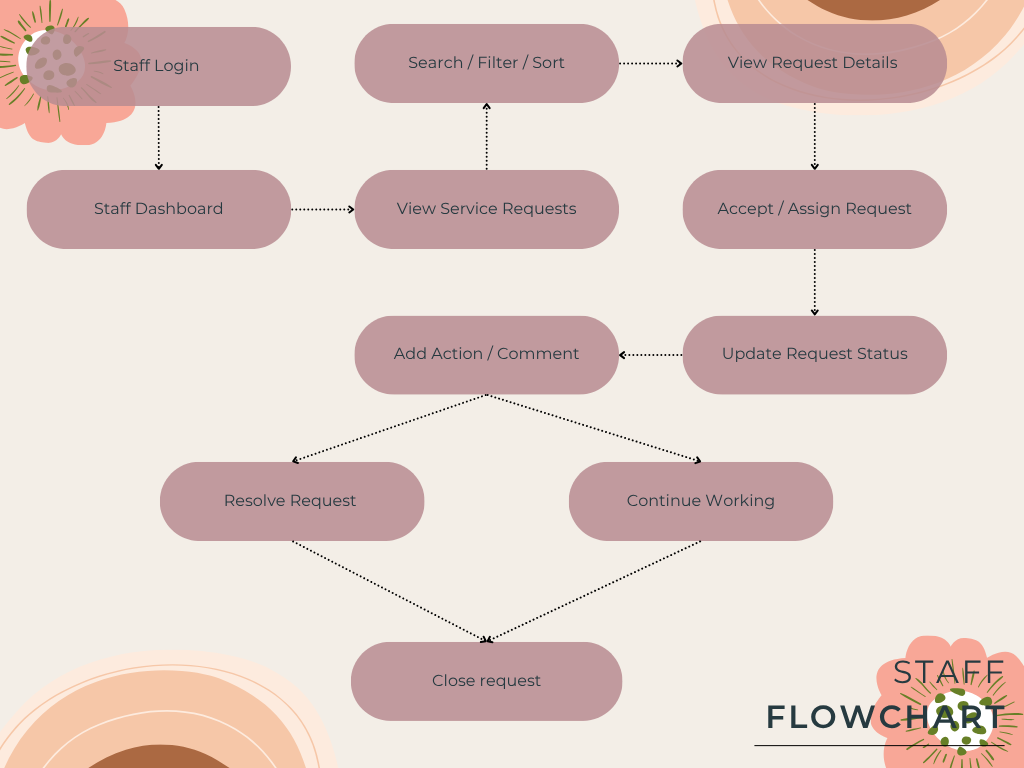
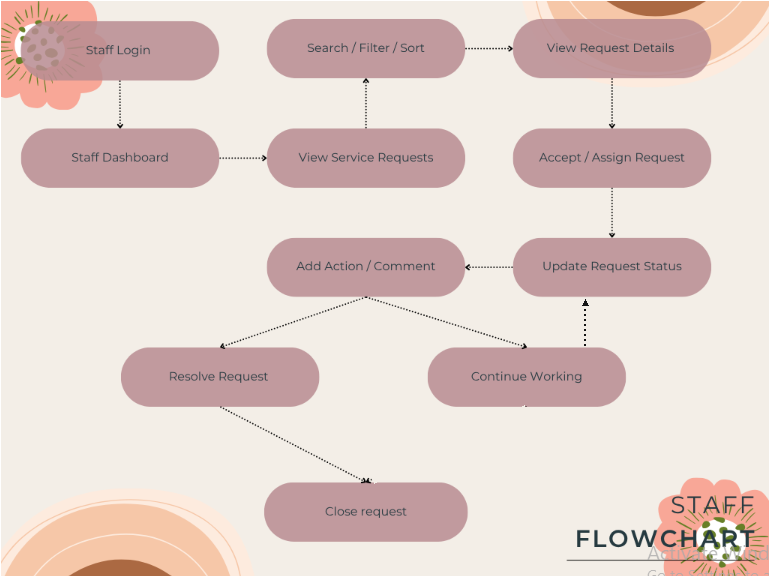
UI Design Complete
All the necessary wireframes have been developed and uploaded according to the necessary requirements outlined. The UI design document has also been developed to showcase reasoning behind all the interface designs.
Closes #24

diff --git a/docs/Architecture/ui-design.md b/docs/Architecture/ui-design.md
@@ -1,0 +1,91 @@
+# UI & Interaction Design
+## 1. Design Goals
+| Goal Number | Goal | Driven By |
+|---|---|---|
+| G1 | A requester must be able to successfully submit a request and check its status without any assistance | NFR-006 (80% of the test users complete the key tasks unassisted)|
+| G2 | Each role must only see the screen and actions that are necessary/appropriate for them | NFR-002 (role-based access) |
+| G3 |  Incomplete/invalid input must be rejected at the interface with valuable feedback to the user | NFR-011 (data integrity) |
+| G4 |  Core screens my work on necessary browsers with no browser-specific features | NFR-012 (browser compatibility) |
+ 
+## 2. Information Architecture 
+The login is shared and after the user logs in, they will land on their role's specific homescreen. Every screen will also show the same top bar (except the login page). Access of each type of role will be enforced on the server side (NFR-002), so this ensures security that a user can't type a staff URL and get access automatically.
+
+The UI is following the presentation layer that is defined in the architecture under Modular Layered Monolith Architecture.png.
+
+**Shared:**   Login → (role-based landing screen)
+
+**Requester:**   Requester Dashboard → Submit New Request
+ → Request Detail (status + history)
+
+**Staff:**       Staff Dashboard → Request Detail (assign / update status / comment / resolve / close)
+
+**Management:**  Management Dashboard → Request Detail (read-only)
+
+## 3. User Flows 
+Requester flow: Requester Flowchart.png
+Staff flow: Staff Flowchart.png
+Management flow: Management Flowchart.png
+
+Rule for the Staff flow: after successfully updating a status and adding comments or actions, staff wil either resolve the request or continue working. Only a resolved request proceeds to close (FR-010, FR-012).
+
+## 4. Wireframes 
+| Screen | Role | Requirements covered | Wireframe |
+|---|---|---|---|
+| Login | All | NFR-001, NFR-003 | login.png |
+| Submit a new request | Requester | FR-001, FR-002 | requester-submit-request.png |
+| Submit a new request with validation errors | Requester | NFR-011 | requester-submit-request-error.png |
+| Requester Dashboard | Requester | FR-003, FR-004 | requester-dashboard.png |
+| Request Detail | Requester | FR-003, FR-005 | requester-request-detail.png |
+| Staff Dashboard | Staff | FR-006, FR-007 | staff-dashboard.png |
+| Request Detail and actions | Staff | FR-008, FR-009, FR-010, FR-011, FR-012, NFR-009 | staff-request-detail.png |
+| Management Dashboard | Management | FR-013, FR-014, FR-015 | management-dashboard.png |
+
+## 5. Usability Rationale
+| Design Choice | Why | Requirement | 
+|---|---|---|
+| Overdue is being shown as a flag instead of as a status on a request | A request can be in progress as well as overdue at the same time | FR-014 |
+| The Management Dashboard shows the counts for the amount of requests that are open, overdue, resolved and closed. Filters can also be used that filters everything by category, status and date | This gives the management an wide overview | FR-013, FR-014, FR-015 |
+| The status, comments, assignment and history are all on one screen | Staff are able to complete common tasks without navigating between screens | FR-008 up until FR-012 |
+| Status dropdown will only offer the valid next statuses | This will prevent any invalid transitions at the interface and backend | FR-010 |
+| Validtion messages will appear the field it is referring to | User-friendly way to ensure users aren't confused | NFR-011 |
+| A timeline of status changes/messages on the request detail | Requesters are able to see updates, rejections as well as resolution notes in one place | FR-005 |
+| Confirmation shows the request reference number | The requester gets immediate proof that the request was successfully received | FR-001 |
+| Few fields on the submit form and the category gets chosen from a dropdown | This keeps the submission quick and enforces controlled category selection | NFR-006, FR-002 |
+| Status shown as a badge in the requester's list | This ensuress the status is visible without having to open each request | FR-003 |
+
+## 6. Accessibility Rationale
+The design target agreed upon: WCAG 2.2 Level AA (a design reference and not a claim of compliance).
+
+**Verification:** Has not yet been performed as a more in detail/technical keyboard walkthrough is planned for Milestone 3.
+
+**Design choices:**
+- Layout will use standard components so it works across all types of browsers as outlined for the NFR-012.
+- Error messages are simple texts that get placed next to a field they refer to.
+- Status shown as text plus colour and never just the colour by itself.
+- Every input has a visible label.
+- Forms and actions are operable by keyboard
+
+## 7. Deliberate Simplifications
+The few deliberate simplifications we decided on are as follows:
+- Wireframes are low-fidelity with no visual styling
+- No file attachments and no editing of a request after submission. As well as no in-app messaging between the requester and staff since these are all outside the necessary/baselined scope.
+- The Management Dashboard is read-only, meaning they can view a request detail but not change the assignment or status.
+
+## 8. Validation Status
+The entire team has reviewed the wireframes against all the listed functional requirements. They have not yet been tested in an operational environment with real users. Usability testing and accessibility checks are planned for M3.
+
+## Traceability Summary
+| Requirement | Screen |
+|---|---|
+| FR-001, FR-002 | Submit a new request |
+| FR-003, FR-004 | Requester Dashboard, Requester request detail |
+| FR-005 | Requester request detail (timeline), Notification Service |
+| FR-006, FR-007 | Staff Dashboard |
+| FR-008 up until FR-012| Staff Request Detail  |
+| FR-013 up until FR-015 | Management Dashboard |
+| NFR-001, NFR-003 | Login |
+| NFR-002 | Role-specific navigation (enforced on the server-side) |
+| NFR-006 | All requester screens (target for usability) |
+| NFR-009 | Staff Request Detail (historical timeline of who, what and when) |
+| NFR-011 | Submit new request (validation errors) |
+| NFR-012 | All Screens |

diff --git a/docs/PED/ai-usage-register.md b/docs/PED/ai-usage-register.md
@@ -17,3 +17,4 @@ The intent of this register is to make sure the team records all the AI-assisted
 |09/09/26|Kaylee Hiralall|ChatGPT|PED Version 1: Requirements Engineering|Assisted with structuring and refining the problem statement, business need, stakeholder analysis, scope baseline, functional requirements, non-functional requirements, acceptance criteria, assumptions and constraints, including prioritisation of requirements and measurable NFR targets.|Reviewed the suggested content against the CivicConnect Master Project Brief and adjusted the requirements, priorities and acceptance criteria to match the project's actual scope and stakeholder needs.|Modified|Some AI suggestions required adjustment to ensure priorities, measurable targets and scope aligned with the project brief.|
 | 31/06/26 | Chanzél Hammond | Claude | Github Repo and Branch Setup | Assisted with guidance to set up the repo's branch ruleset, folder structure and Issues & Project setup correctly | The settings were checked and verified against the project brief's Section 9 before applying. | Accepted | Initial guidance made use of an outdated version of GitHub for guidance which led to confusion |
 | 09/09/26 | Chanzél Hammond | Claude | Issues & board setup | The initial Issue List suggested was verified against project briefs and instructions by AI to confirm alignment of the project. | Compared list against actual M1 deliverables in document as well and team members reviewed tasks at hand as well | Modified | None significant. |
+| 28/09/2026 | Chanzél Hammond | Claude | Final wireframe setups | For the User Interface design we had to design low-fidelity wireframes to ensure that the app's screens are planned and set up according to all requirements. AI was used to finalise all the wireframe setups to ensure more coherent design styles across the screens and to ensure that user friendly design approaches are designed neatly for team members to refer to when desiging the final app | The design choices were confirmed by checking them against all the functional and non-functional requirements as well as confirming with team members that they all agree with the design choices | Accepted | Some of the screens delivered did not agree with previous wording we used in our artefacts for requests in progress for example, so that had to be modified |

diff --git a/docs/PED/PED_v2.0.md b/docs/PED/PED_v2.0.md
@@ -1,0 +1,12 @@
+# Project Engineering Document (PED)
+# Version Two
+
+**Milestone 2:**  
+**Date:** 2026/09/30
+**Team:** Group L
+
+## 1. Document Control
+| Version | Date | Author(s) | Reviewed By | Status |
+|---|---|---|---|---|
+| 1.0 | 2026/09/09 | Kaylee, Alyssa, Chanzél | All team members | Finished |
+| 2.0 | 2026/09/29 | Kaylee, Alyssa, Chanzél | All team members | In Progress |
